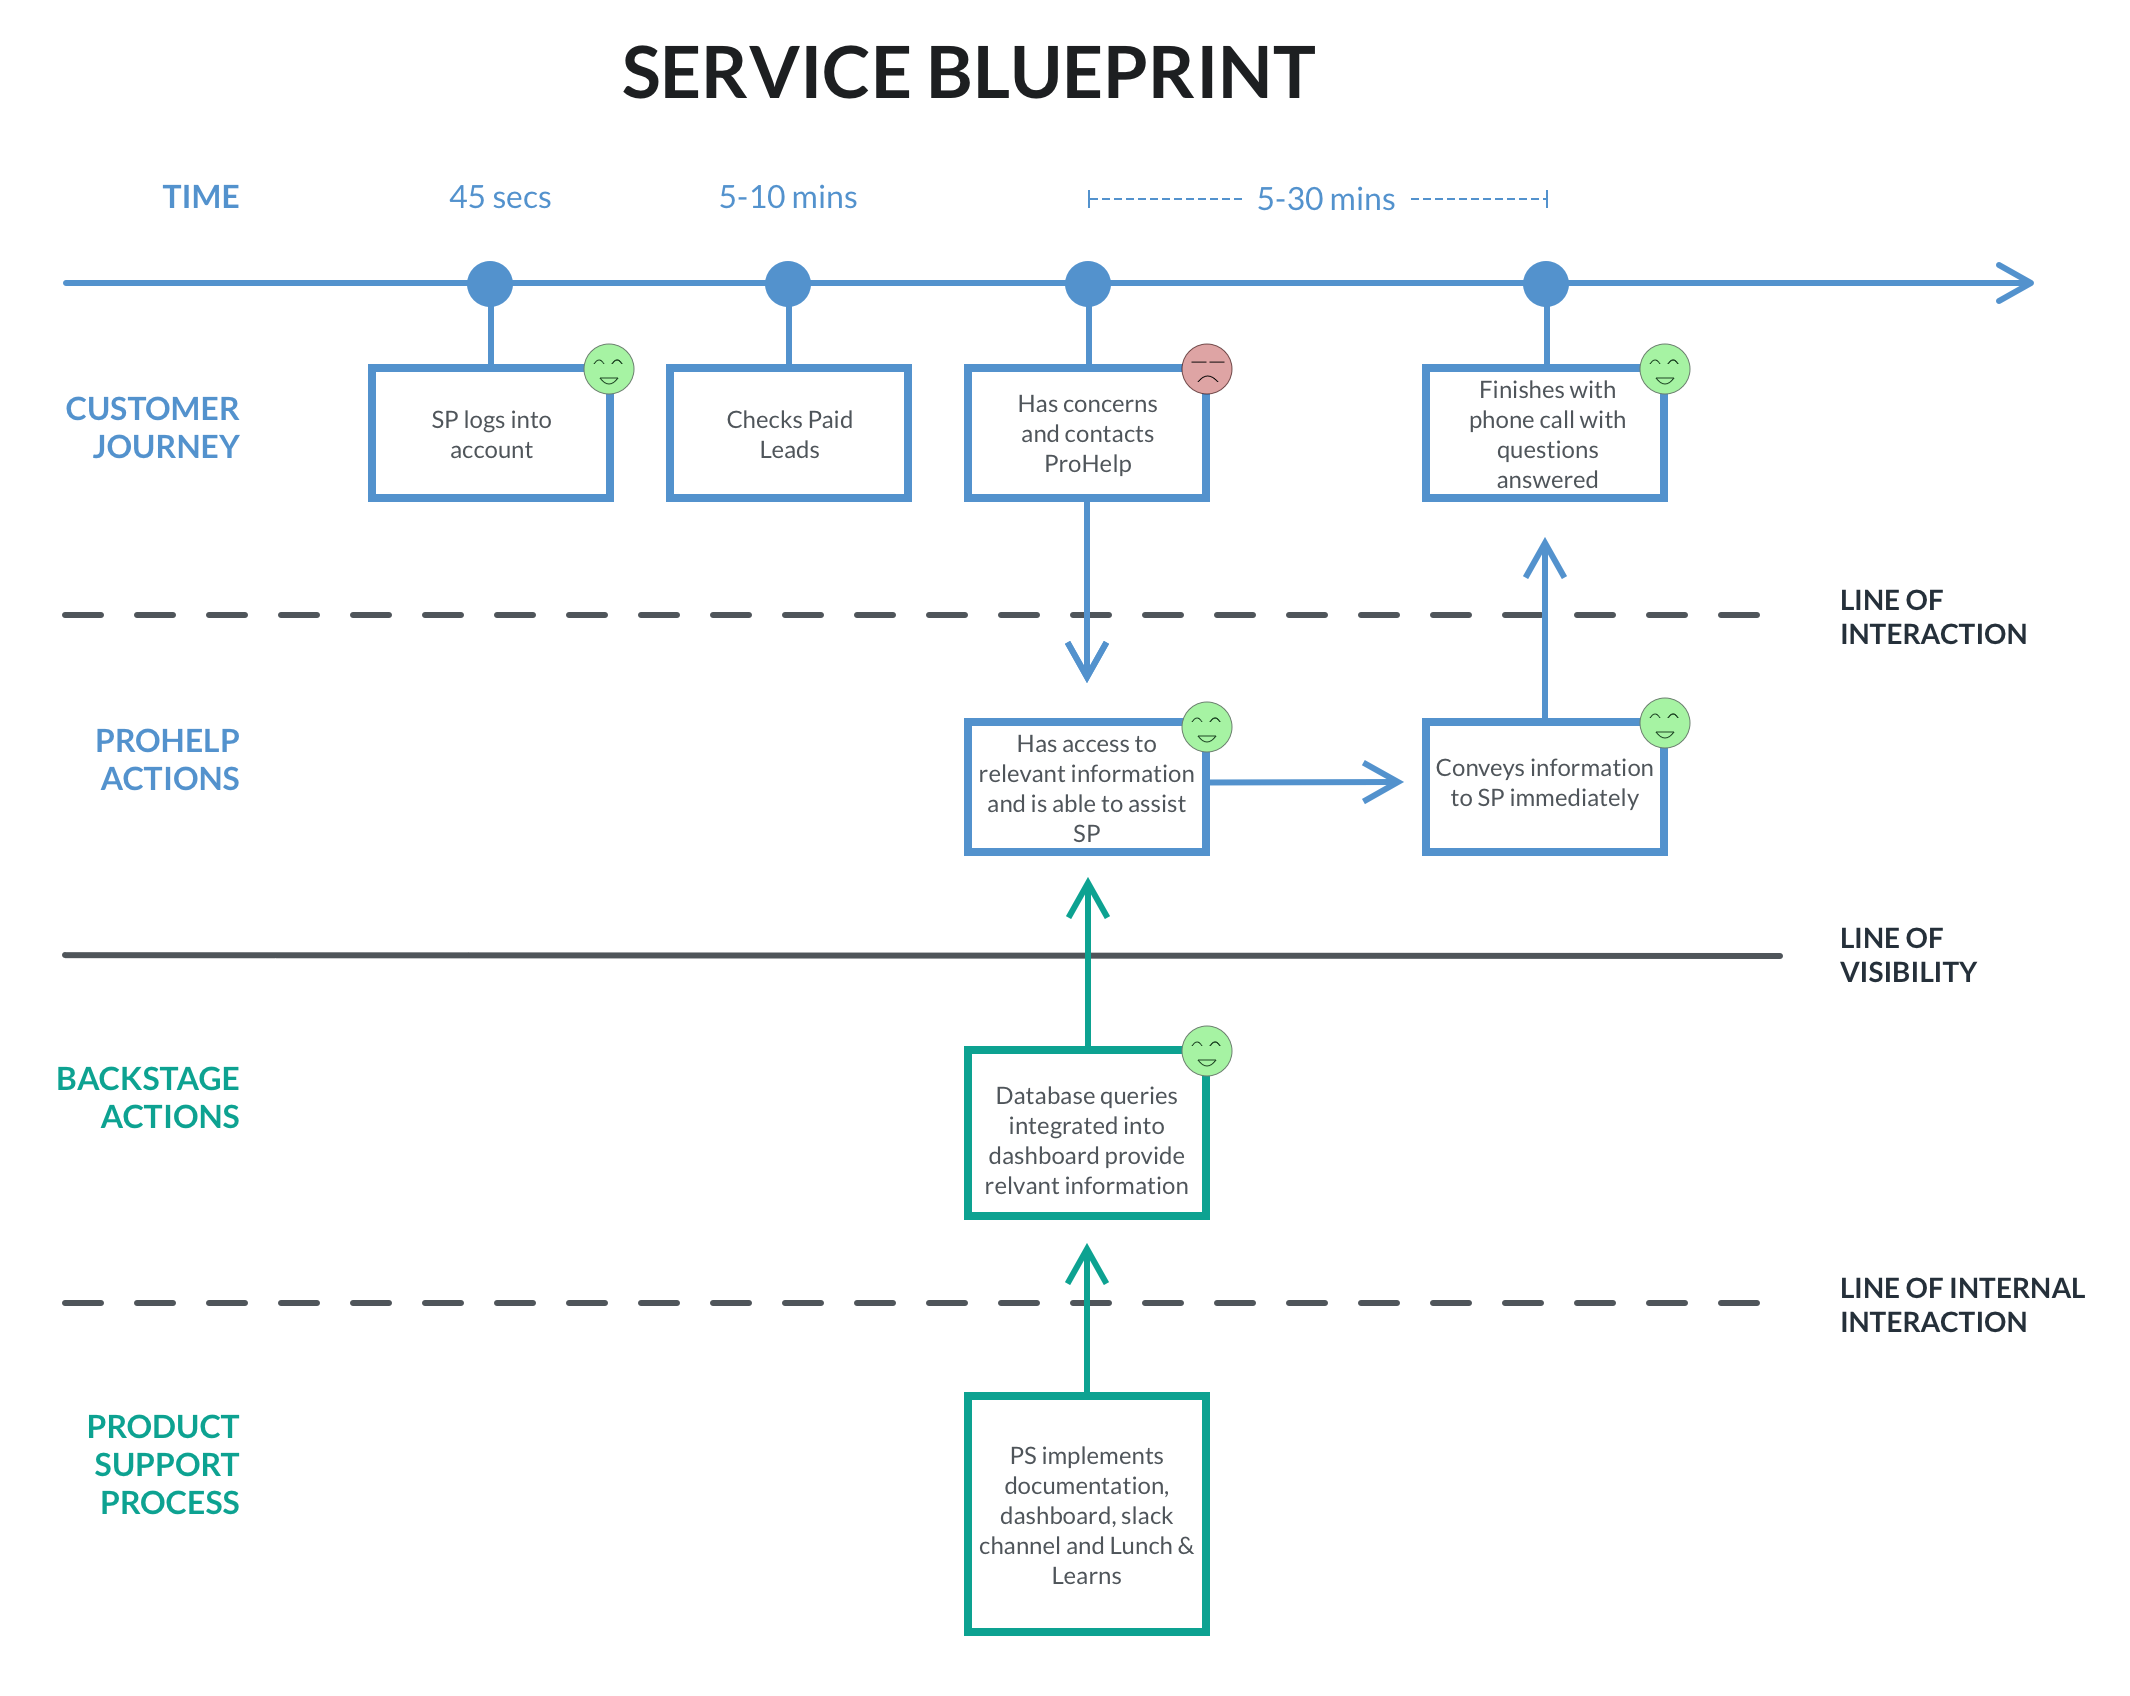
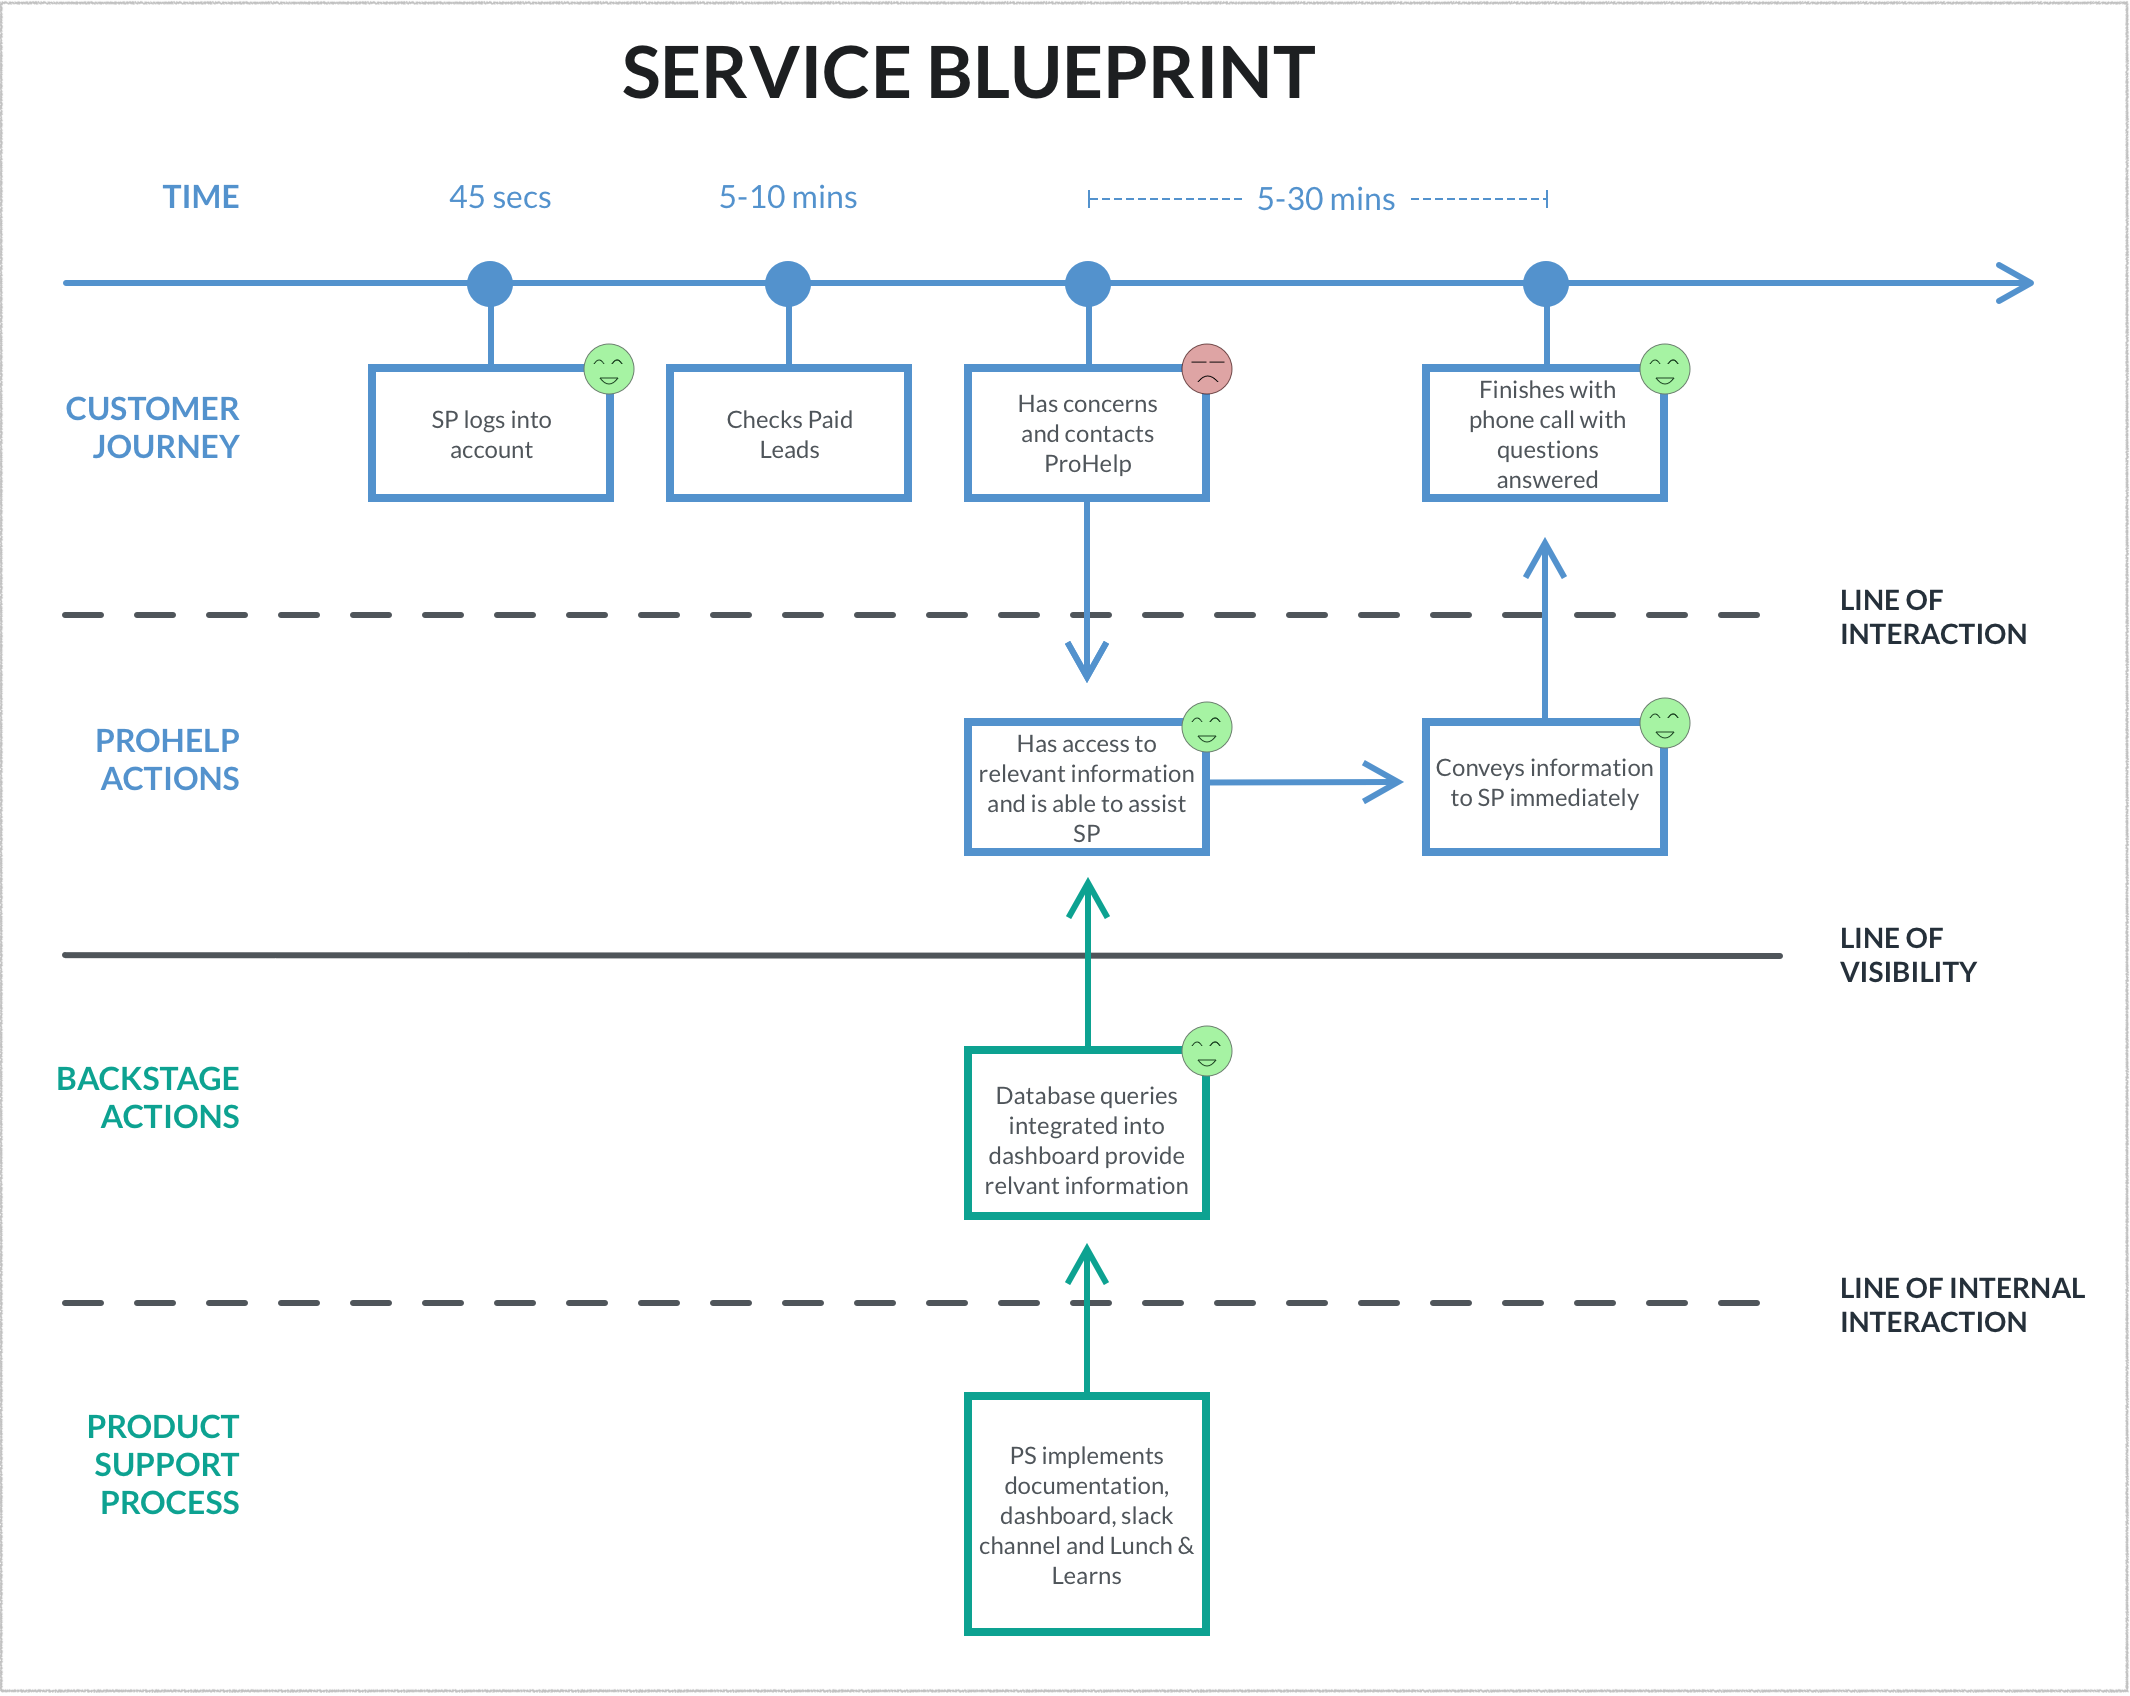
write up

Changed region(s): [[0.9915, 0.0, 1.0, 1.0]]

diff --git a/projects/Dashboard.html b/projects/Dashboard.html
@@ -180,7 +180,13 @@ Testing: I conducted user testing with two customer support team members.</p>
       <li>Significant reduction in call volume and call-backs</li>
       <li>30% reduction in churn</li>
       <li>Support team felt engaged and supported</li>
-      </ol>    
+      </ol>   
+          
+      <div class="example-img">
+        <img src="../assets/Dashboard/ServiceBlueprintPOST.png" alt="Dashboard">
+      </div>
+      <p class="example-caption">Service Blueprint post design implementation</p>
+          
     </section>  
   </main> 
   <footer>
